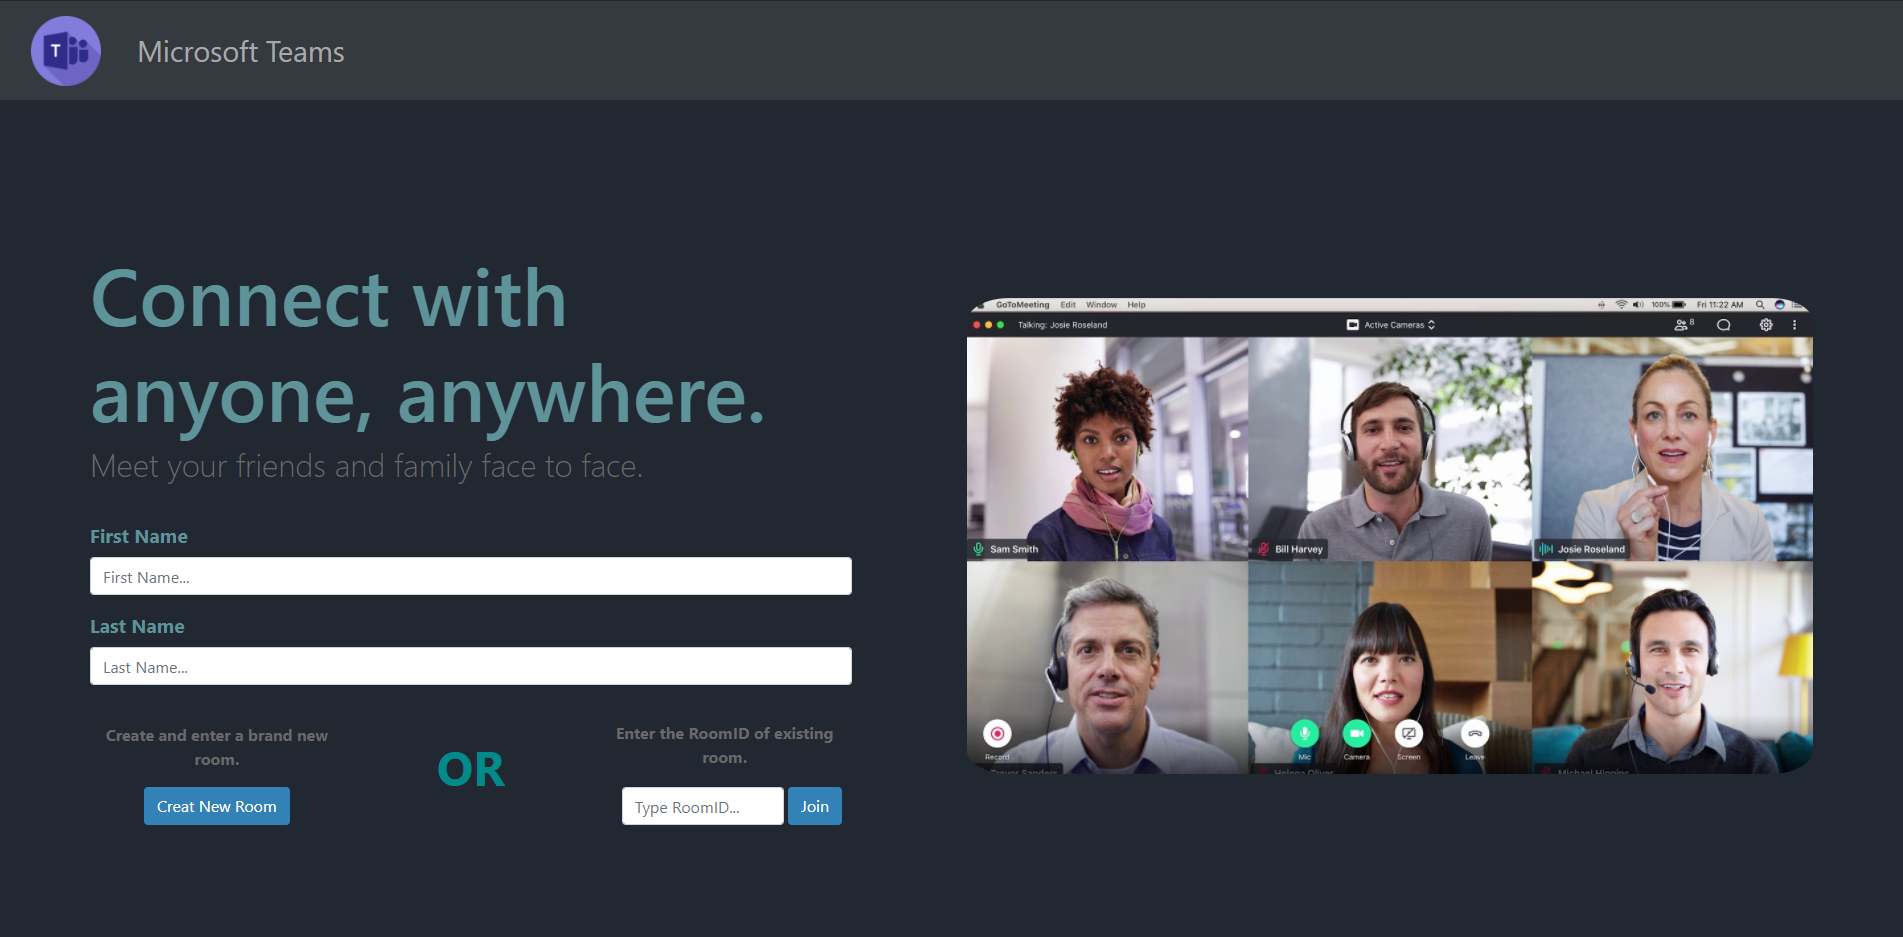
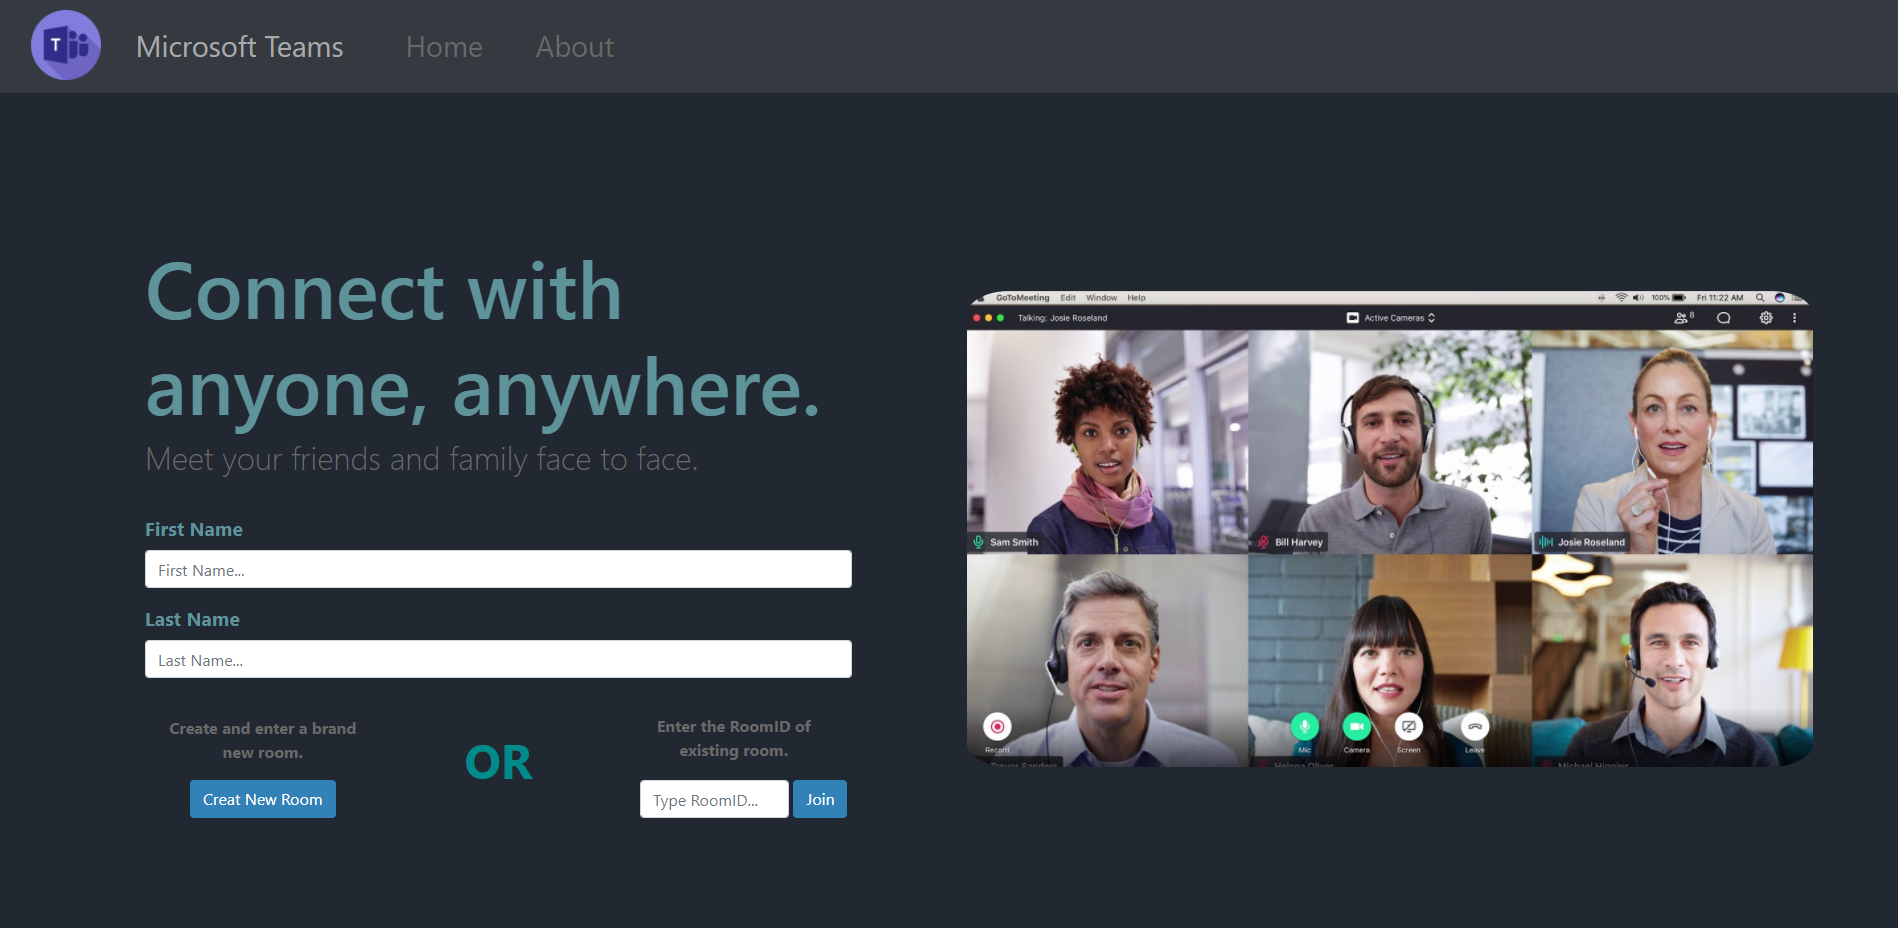
README.md update, deploy

diff --git a/server.js b/server.js
@@ -46,40 +46,40 @@ app.post('/', (req, res) => {
 
 }, )
 
-
+// end 
 app.get("/end", (req, res) => {
   res.render("end")
 })
 
+// about 
 app.get("/about", (req, res) => {
   res.render("about")
 })
 
-
-
-
-
-
-
 // ----------- socket io connection -------------
 io.on('connection', socket => {
+
+  // listens for when a user joins a room
   socket.on('join-room', (roomId, userId) => {
     socket.join(roomId)
     socket.broadcast.to(roomId).emit('user-connected', userId)
 
+    //  listens for when a user is disconnected
     socket.on('disconnect', () => {
       socket.broadcast.to(roomId).emit('user-disconnected', userId)
     })
 
+    // listens for when a user sends a message
     socket.on('send-message', (data) => {
-      // console.log("senind message")
       socket.broadcast.to(data.roomId).emit('receive-message', {message: data.message, firstName: data.firstName})
     })
 
+    // listens for when a name tag is to be added
     socket.on('name-tag-added', data => {
       socket.broadcast.to(data.roomId).emit('user-name-tag-added', {userId: data.userId, iconClass: data.iconClass})
     })
 
+    // listens for when a name tag is to be removed
     socket.on('name-tag-removed', data => {
       socket.broadcast.to(data.roomId).emit('user-name-tag-removed', {userId: data.userId, iconClass: data.iconClass})
     })

diff --git a/public/js/script.js b/public/js/script.js
@@ -31,8 +31,7 @@ let myDetails = {
 const peer = new Peer(undefined, {
   path: '/peerjs',
   host: '/',
-  // port: '443'
-  port: '3000'
+  port: '443'
 })
 
 // getting the user's video and audio streams
@@ -470,6 +469,8 @@ const toggleChat = () => {
     isShowingChat = true
   }
 
+  Dish()
+
 };
 
 
@@ -512,6 +513,8 @@ const toggleParticipants = () => {
     isShowingParticipants = false
     document.getElementsByClassName("bottom-btn")[4].getElementsByTagName("div")[0].classList.remove("show-chat")
   }
+
+  Dish()
 
 }
 

diff --git a/README.md b/README.md
@@ -97,13 +97,29 @@ First, you need to download and install node.js and npm.
 
 
 <!-- USAGE EXAMPLES -->
-## Usage
-
-Use this space to show useful examples of how a project can be used. Additional screenshots, code examples and demos work well in this space. You may also link to more resources.
-
-_For more examples, please refer to the [Documentation](https://example.com)_
+## Walkthrough
 
 
+* Home page. User enters their first name and last name.
+![home-page](public/assets/home.PNG)
+
+* Two people connected in a unique room.
+![two-participants](public/assets/two.PNG)
+
+* Three (or more) people can be connected in a unique room.
+![three-participants](public/assets/three.PNG)
+
+* List of all current participants on the right side.
+![all-participants](public/assets/participants.PNG)
+
+* Chatroom on the right side.
+![chat-feature](public/assets/chat.PNG)
+
+* Raise hand feature.
+![raise-hand-feature](public/assets/raise.PNG)
+
+* Page rendered after user pressed Leave Meeting button.
+![end-page](public/assets/end.PNG)
 
 <!-- CONTACT -->
 ## Contact
